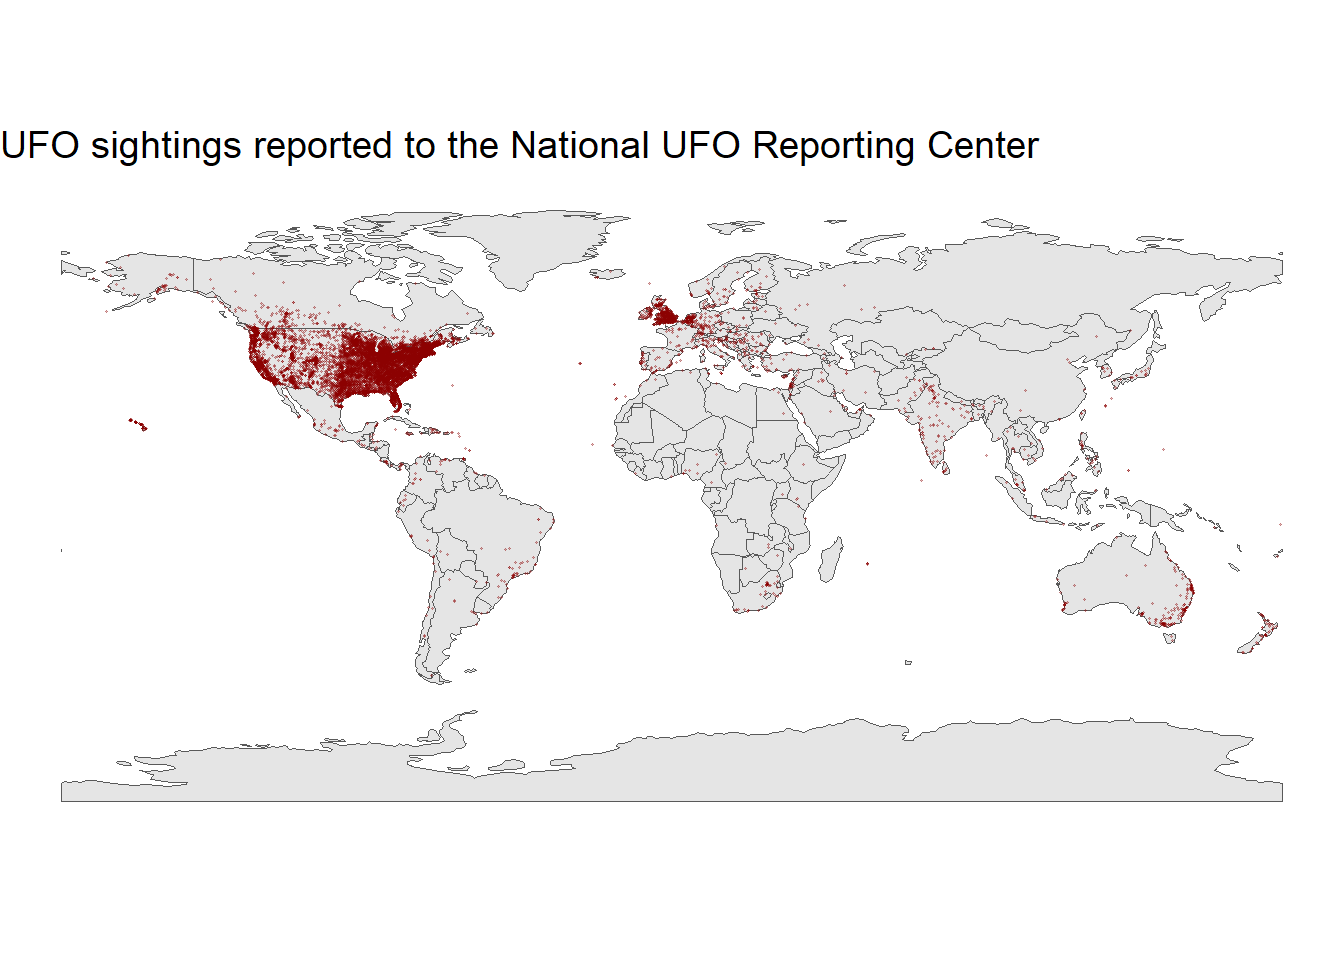
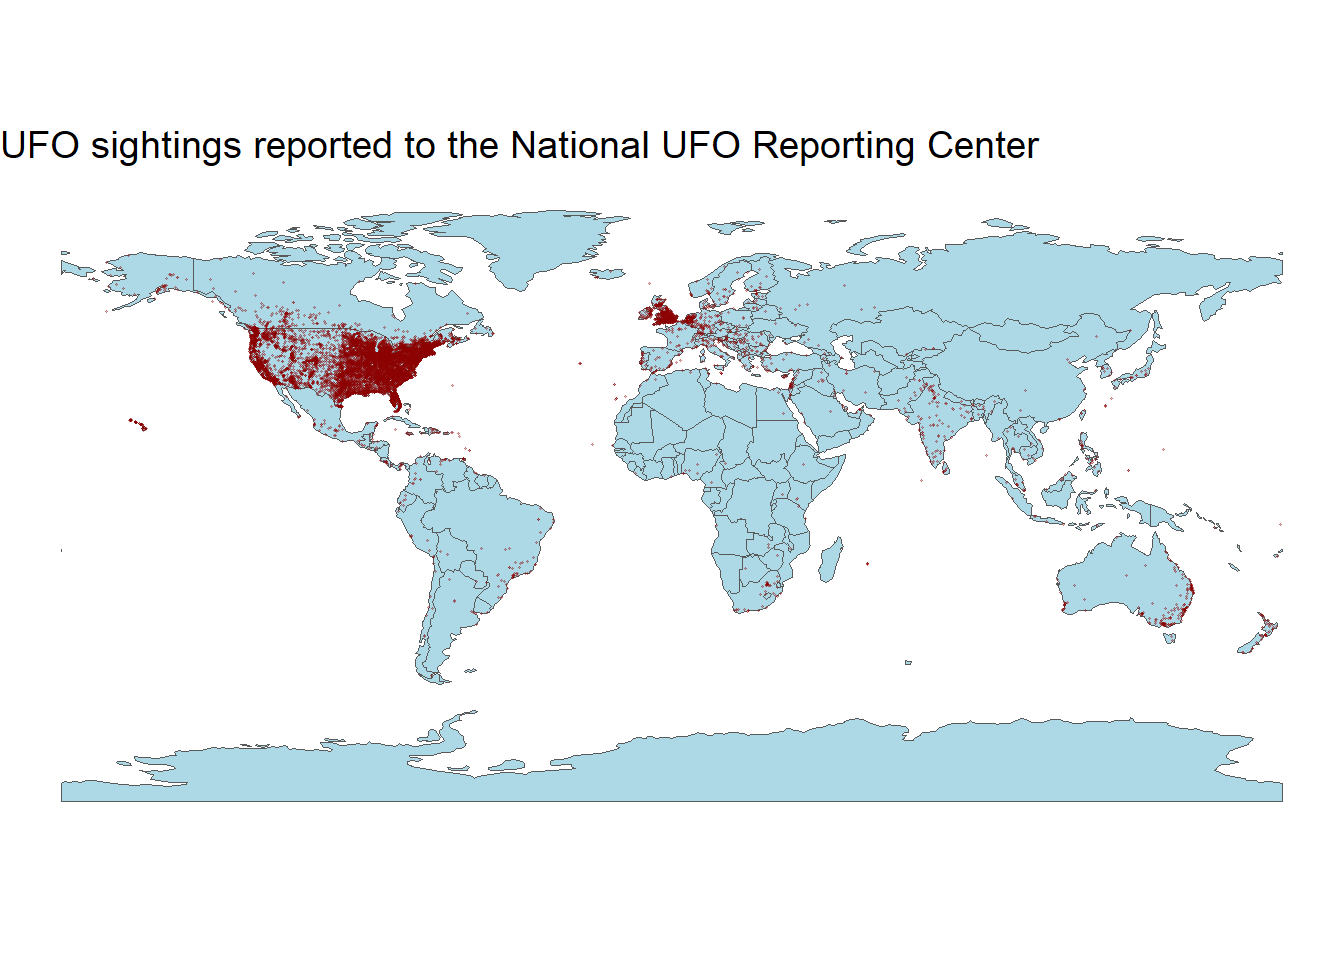
Built site for gh-pages

diff --git a/bw/bw-spatial.html b/bw/bw-spatial.html
@@ -272,7 +272,7 @@ pre > code.sourceCode > span > a:first-child::before { text-decoration: underlin
 <span id="cb3-2"><a href="#cb3-2"></a><span class="co">#|fig-alt: "A map showing the distribution of UFO sightings reported to the National UFO Reporting Center. The majority of reported sightings came from the United States, Western Europe, and Australia."</span></span>
 <span id="cb3-3"><a href="#cb3-3"></a></span>
 <span id="cb3-4"><a href="#cb3-4"></a><span class="fu">ggplot</span>(world_boundaries) <span class="sc">+</span> </span>
-<span id="cb3-5"><a href="#cb3-5"></a>  <span class="fu">geom_sf</span>() <span class="sc">+</span> </span>
+<span id="cb3-5"><a href="#cb3-5"></a>  <span class="fu">geom_sf</span>(<span class="at">fill =</span> <span class="st">"lightblue"</span>) <span class="sc">+</span> </span>
 <span id="cb3-6"><a href="#cb3-6"></a>  <span class="fu">geom_point</span>(</span>
 <span id="cb3-7"><a href="#cb3-7"></a>    <span class="at">data =</span> places,</span>
 <span id="cb3-8"><a href="#cb3-8"></a>    <span class="fu">aes</span>(<span class="at">x =</span> longitude, <span class="at">y =</span> latitude),</span>
@@ -958,7 +958,7 @@ window.document.addEventListener("DOMContentLoaded", function (event) {
 <span id="cb4-40"><a href="#cb4-40"></a><span class="co">#|fig-alt: "A map showing the distribution of UFO sightings reported to the National UFO Reporting Center. The majority of reported sightings came from the United States, Western Europe, and Australia."</span></span>
 <span id="cb4-41"><a href="#cb4-41"></a></span>
 <span id="cb4-42"><a href="#cb4-42"></a><span class="fu">ggplot</span>(world_boundaries) <span class="sc">+</span> </span>
-<span id="cb4-43"><a href="#cb4-43"></a>  <span class="fu">geom_sf</span>() <span class="sc">+</span> </span>
+<span id="cb4-43"><a href="#cb4-43"></a>  <span class="fu">geom_sf</span>(<span class="at">fill =</span> <span class="st">"lightblue"</span>) <span class="sc">+</span> </span>
 <span id="cb4-44"><a href="#cb4-44"></a>  <span class="fu">geom_point</span>(</span>
 <span id="cb4-45"><a href="#cb4-45"></a>    <span class="at">data =</span> places,</span>
 <span id="cb4-46"><a href="#cb4-46"></a>    <span class="fu">aes</span>(<span class="at">x =</span> longitude, <span class="at">y =</span> latitude),</span>

diff --git a/index.html b/index.html
@@ -5,7 +5,7 @@
 <meta name="generator" content="quarto-1.5.57">
 <meta name="viewport" content="width=device-width, initial-scale=1.0, user-scalable=yes">
 <meta name="author" content="Sam Kennedy">
-<meta name="dcterms.date" content="2025-02-19">
+<meta name="dcterms.date" content="2025-02-21">
 <title>COMP/STAT112 Notebook</title>
 <style>
 code{white-space: pre-wrap;}
@@ -256,7 +256,7 @@ pre > code.sourceCode > span > a:first-child::before { text-decoration: underlin
     <div>
     <div class="quarto-title-meta-heading">Published</div>
     <div class="quarto-title-meta-contents">
-      <p class="date">February 19, 2025</p>
+      <p class="date">February 21, 2025</p>
     </div>
   </div>
   
